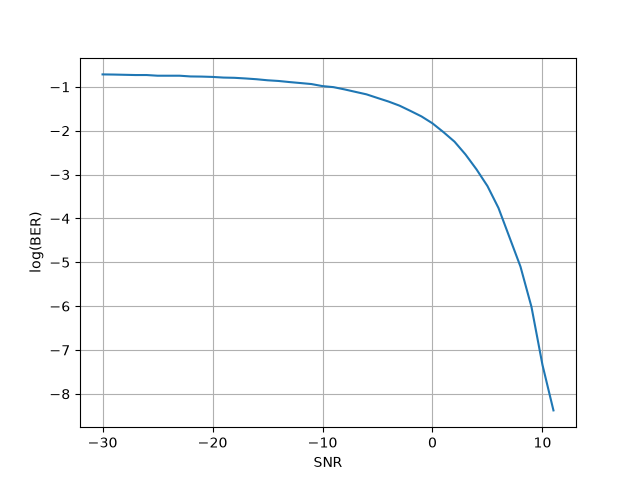
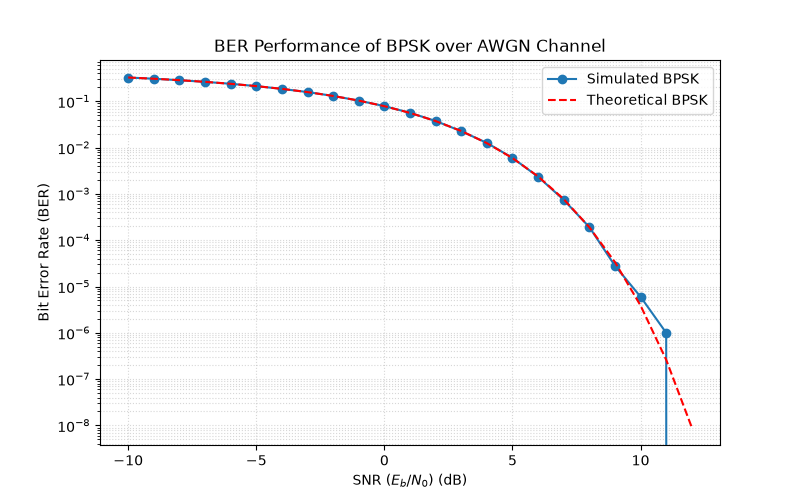
Converted into multiple files for organisation and clarity

diff --git a/communication_simulation/communication_simulation/main.py b/communication_simulation/communication_simulation/main.py
@@ -1,87 +1,26 @@
 import numpy as np
-import matplotlib.pyplot as plt
 
-# ------------------------------ PRE-TRANSMISSION SETUP ------------------------------
-
-# Generate the bits to be processed
-def gen_bits(seed, size):
-    # Random bit generation
-    rng = np.random.default_rng(seed)
-    return rng.integers(0, 2, size=size)
-
-# Convert the bits into a wave signal
-def bit_to_signal(bits):
-    return (bits * 2) - 1
-
-
-# ------------------------------ TRANSMISSION ------------------------------ 
-
-# Add noise to the signal
-def add_noise(signal, snr_db):
-    P_signal = np.mean((signal*signal))
-    snr_linear = 10 ** (snr_db / 10)
-    P_noise = P_signal / snr_linear
-    noise_std = np.sqrt(P_noise)
-    return signal + np.random.normal(0, noise_std, np.size(signal))
-
-
-# ------------------------------ POST-TRANSMISSION PROCESSING ------------------------------ 
-# Convert the signal to bits
-def signal_to_bit(signal):
-    return np.where(signal < 0, 0, 1) # If array value < 0, return 0, otherwise 1
-    
-# Calculate the error between the input bits and output bits
-def calc_error(sent_bits, received_bits):
-    error = np.not_equal(sent_bits, received_bits)
-    return error.sum()/np.size(sent_bits)
-
-
-# ------------------------------ UTILITIES / DEBUGGING ------------------------------
-
-# Visualise the noisy signal
-def plot_signal(signal):
-    plt.plot(signal)
-    plt.ylim(-3,3)
-    plt.xlim(0, np.size(signal))
-    plt.axhline(linestyle = "--", color = "red")
-    plt.show()
-
-# Plot SNR against BER
-def plot_snr_v_ber(snr, ber):
-    plt.xlabel("SNR")
-    plt.ylabel("log(BER)")
-    plt.plot(snr,ber)
-    plt.grid()
-    plt.show()
+from simulation import communication_simulation
+from plotting import plot_snr_v_ber
 
 
 # ------------------------------ MAIN ------------------------------
 
-def communication_simulation(seed,size,snr_dB):
-    random_bits = gen_bits(seed, size)
-    signal = bit_to_signal(random_bits)
-    noisy_signal = add_noise(signal, snr_dB)
-
-    received_bits = signal_to_bit(noisy_signal)
-
-    error = calc_error(random_bits,received_bits)
-    return error
-
-
 def main():
-    size = 100000
-    seed = 1 # Seed for randomness
+    size = 1000000
+    seed = 2
+
+    # Instantiate the RNG once here to avoid repeating bit sequences
+    rng = np.random.default_rng(seed)
 
     snr_list = []
     ber_list = []
 
-    for i in range(60):
-        snr_dB = i-30
+    for snr_dB in range(-10, 13):
         snr_list.append(snr_dB)
-        ber_list.append(communication_simulation(seed, size, snr_dB))
-    
-    ber_list = np.log(ber_list)
-    plot_snr_v_ber(snr_list,ber_list)
+        ber_list.append(communication_simulation(rng, size, snr_dB))
+
+    plot_snr_v_ber(snr_list, ber_list)
 
 
 if __name__ == "__main__":

diff --git a/communication_simulation/communication_simulation/plotting.py b/communication_simulation/communication_simulation/plotting.py
@@ -1,0 +1,41 @@
+import numpy as np
+import matplotlib.pyplot as plt
+from scipy.special import erfc
+
+# ------------------------------ UTILITIES / DEBUGGING ------------------------------
+
+# Visualise the noisy signal
+def plot_signal(signal):
+    plt.figure(figsize=(10, 4))
+    plt.plot(signal)
+    plt.ylim(-3, 3)
+    plt.xlim(0, np.size(signal))
+    plt.axhline(linestyle="--", color="red")
+    plt.title("Noisy Signal Waveform (Time Domain)")
+    plt.xlabel("Sample Index")
+    plt.ylabel("Amplitude")
+    plt.show()
+
+
+# Plot SNR against BER and overlay theoretical performance
+def plot_snr_v_ber(snr_list, ber_list):
+    snr_array = np.array(snr_list)
+
+    # Calculate Theoretical BER: 0.5 * erfc(sqrt(Eb/N0))
+    snr_linear = 10 ** (snr_array / 10)
+    theoretical_ber = 0.5 * erfc(np.sqrt(snr_linear))
+
+    plt.figure(figsize=(8, 5))
+
+    # Plot simulated results
+    plt.semilogy(snr_array, ber_list, 'o-', label='Simulated BPSK')
+
+    # Plot theoretical curve
+    plt.semilogy(snr_array, theoretical_ber, 'r--', label='Theoretical BPSK')
+
+    plt.xlabel("SNR ($E_b/N_0$) (dB)")
+    plt.ylabel("Bit Error Rate (BER)")
+    plt.title("BER Performance of BPSK over AWGN Channel")
+    plt.grid(True, which="both", linestyle=":", alpha=0.5)
+    plt.legend()
+    plt.show()

diff --git a/communication_simulation/communication_simulation/modulation.py b/communication_simulation/communication_simulation/modulation.py
@@ -1,0 +1,19 @@
+import numpy as np
+
+# ------------------------------ PRE-TRANSMISSION SETUP ------------------------------
+
+# Generate the bits to be processed using a shared RNG instance
+def gen_bits(rng, size):
+    return rng.integers(0, 2, size=size)
+
+
+# Convert the bits into a BPSK signal
+def bit_to_signal(bits):
+    return (bits * 2) - 1
+
+
+# ------------------------------ POST-TRANSMISSION PROCESSING ------------------------------
+
+# Convert the signal back to bits
+def signal_to_bit(signal):
+    return np.where(signal < 0, 0, 1)

diff --git a/communication_simulation/communication_simulation/simulation.py b/communication_simulation/communication_simulation/simulation.py
@@ -1,0 +1,12 @@
+from modulation import gen_bits, bit_to_signal, signal_to_bit
+from channels import add_noise
+from metrics import calc_error
+
+
+def communication_simulation(rng, size, snr_db):
+    random_bits = gen_bits(rng, size)
+    signal = bit_to_signal(random_bits)
+    noisy_signal = add_noise(signal, snr_db, rng)
+    received_bits = signal_to_bit(noisy_signal)
+    error = calc_error(random_bits, received_bits)
+    return error

diff --git a/communication_simulation/communication_simulation/channels.py b/communication_simulation/communication_simulation/channels.py
@@ -1,0 +1,12 @@
+import numpy as np
+
+# ------------------------------ TRANSMISSION ------------------------------
+
+# Add AWGN noise to the signal
+def add_noise(signal, snr_db, rng):
+    P_signal = np.mean(signal * signal)
+    snr_linear = 10 ** (snr_db / 10)
+    P_noise = P_signal / snr_linear
+    noise_std = np.sqrt(P_noise / 2)
+    noise = rng.normal(0, noise_std, np.size(signal))
+    return signal + noise

diff --git a/communication_simulation/communication_simulation/metrics.py b/communication_simulation/communication_simulation/metrics.py
@@ -1,0 +1,8 @@
+import numpy as np
+
+# ------------------------------ POST-TRANSMISSION PROCESSING ------------------------------
+
+# Calculate the error between the input bits and output bits
+def calc_error(sent_bits, received_bits):
+    error = np.not_equal(sent_bits, received_bits)
+    return error.sum() / np.size(sent_bits)
